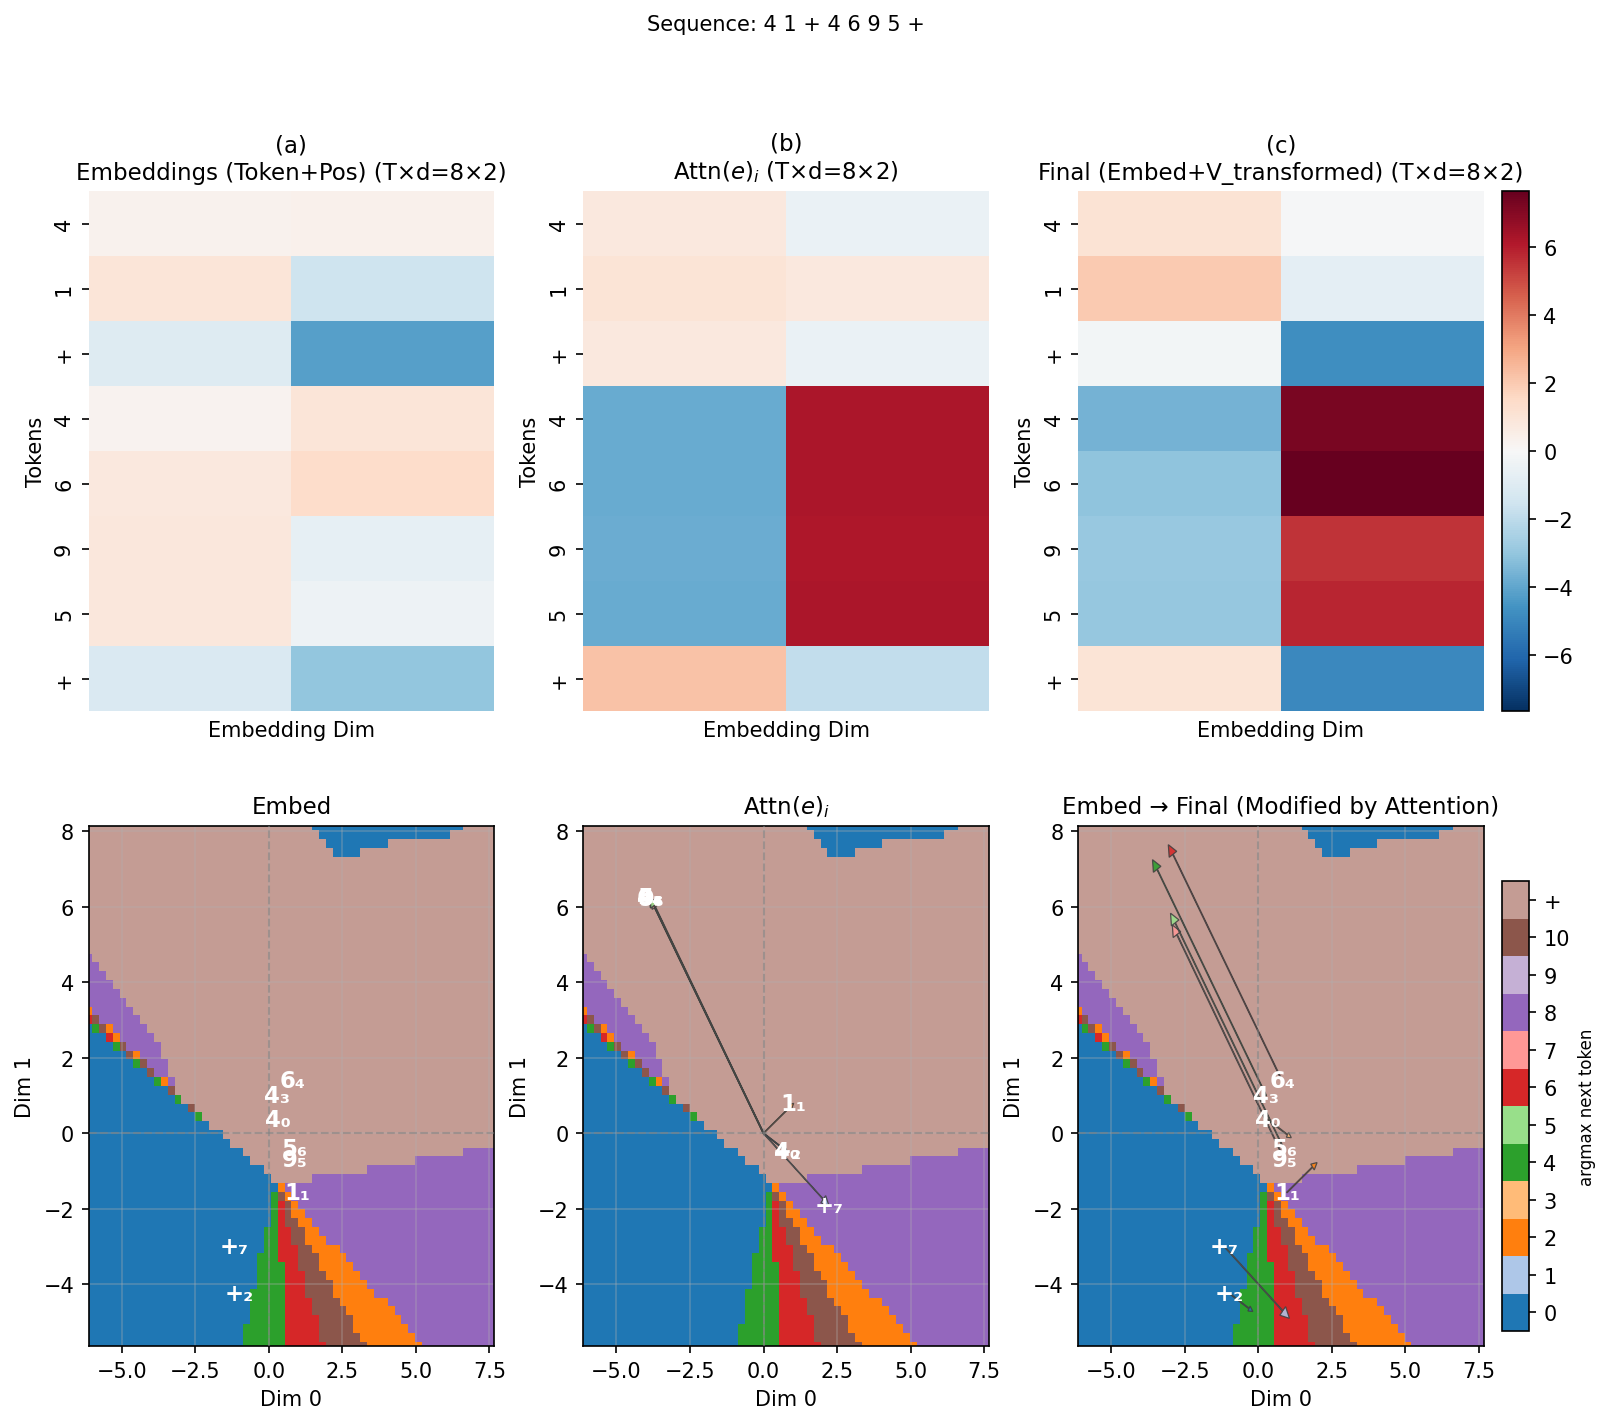
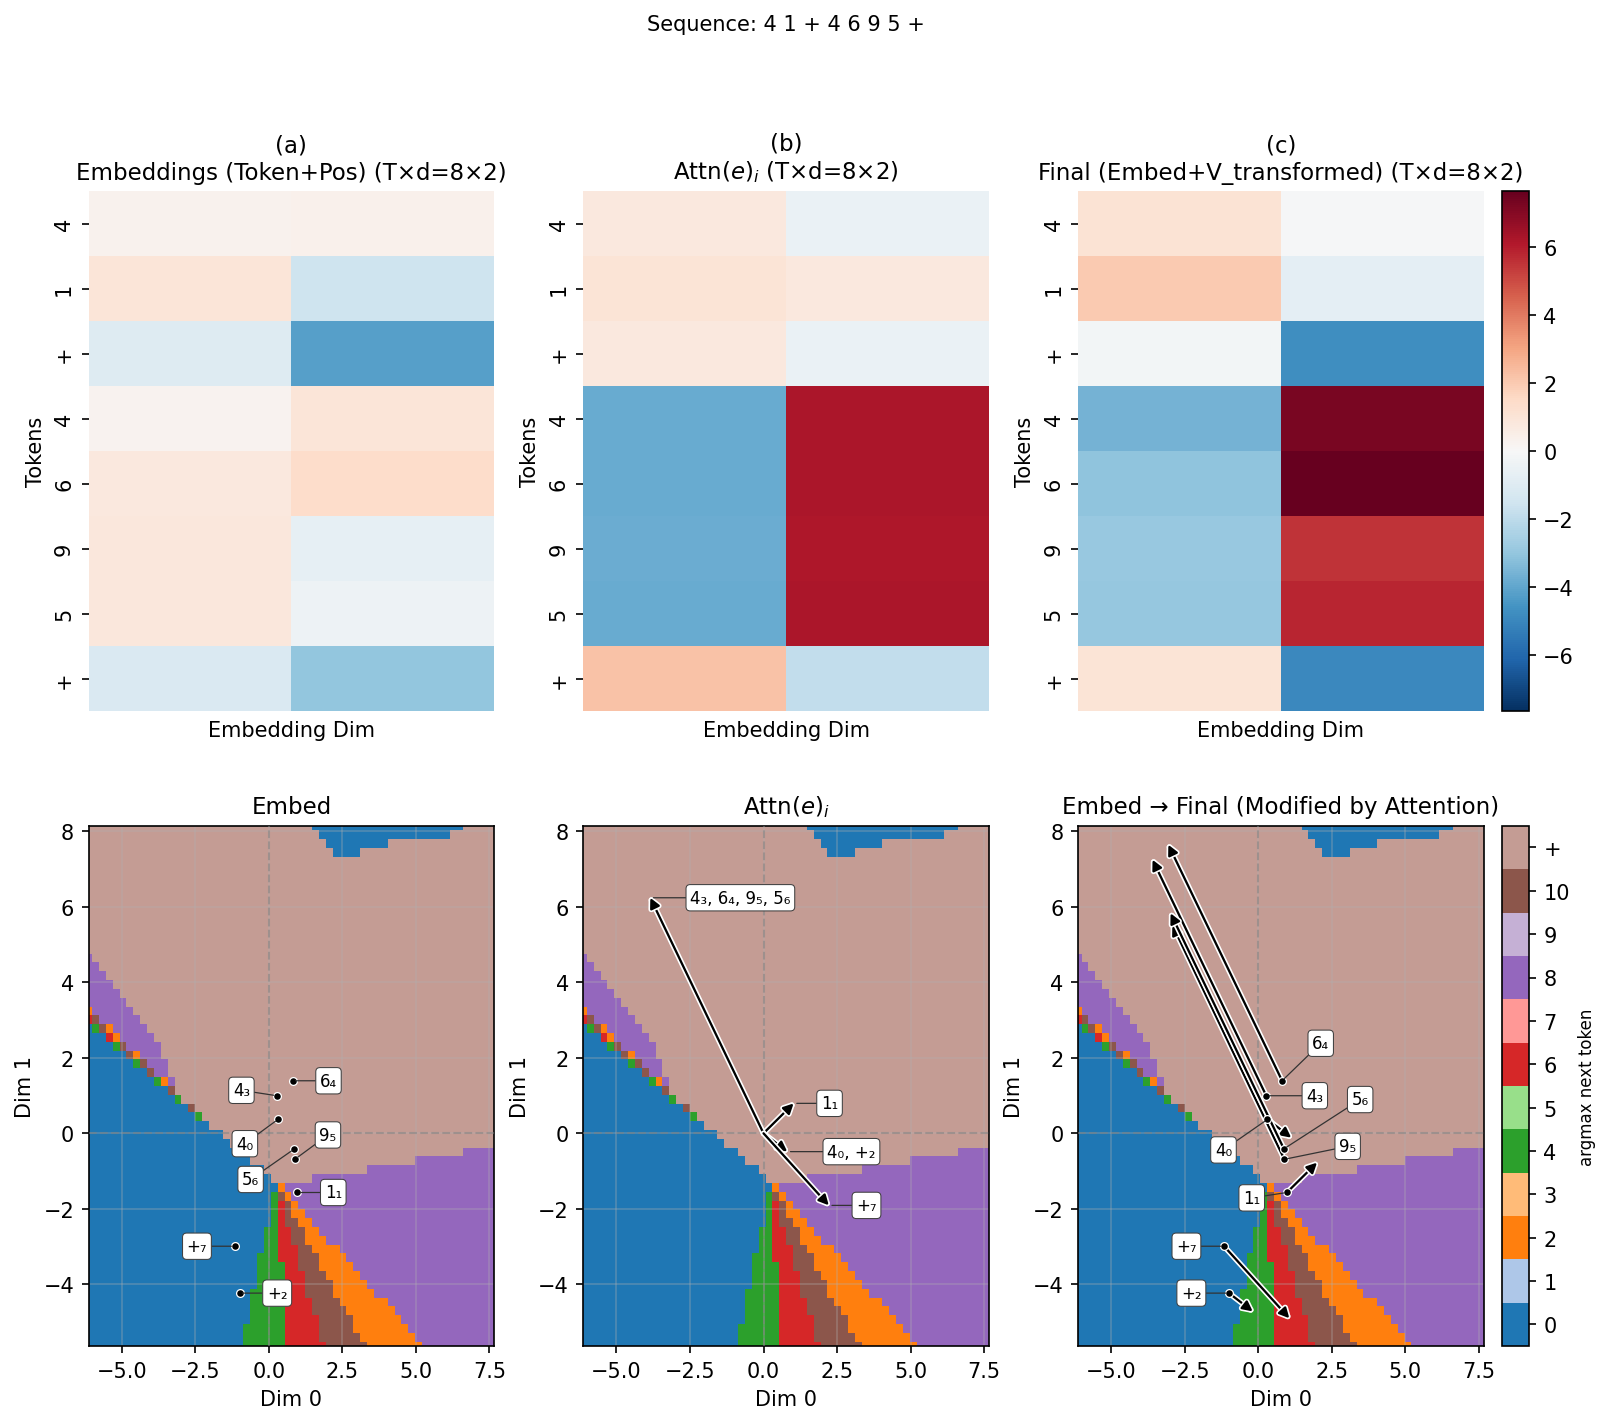
flyers- residual

diff --git a/plotting/17_residuals.py b/plotting/17_residuals.py
@@ -31,6 +31,206 @@ from plotting._utils import (
     collect_epoch_stats, get_attention_snapshot_from_X, get_multihead_snapshot_from_X,
     estimate_loss, estimate_rule_error,
 )
+import matplotlib.patheffects as _pe
+
+
+_FLYER_BOX = dict(boxstyle='round,pad=0.25', facecolor='white', edgecolor='0.25', linewidth=0.5)
+
+
+def _segments_cross(p1, p2, q1, q2):
+    """True if segments p1-p2 and q1-q2 properly intersect (display coordinates)."""
+    def orient(a, b, c):
+        return (b[0] - a[0]) * (c[1] - a[1]) - (b[1] - a[1]) * (c[0] - a[0])
+    d1, d2 = orient(q1, q2, p1), orient(q1, q2, p2)
+    d3, d4 = orient(p1, p2, q1), orient(p1, p2, q2)
+    return (d1 * d2 < 0) and (d3 * d4 < 0)
+
+
+def _segment_hits_rect(p1, p2, rect):
+    x0, y0, x1, y1 = rect
+    for p in (p1, p2):
+        if x0 <= p[0] <= x1 and y0 <= p[1] <= y1:
+            return True
+    corners = [(x0, y0), (x1, y0), (x1, y1), (x0, y1)]
+    return any(_segments_cross(p1, p2, corners[k], corners[(k + 1) % 4]) for k in range(4))
+
+
+def _point_seg_dist(p, a, b):
+    p, a, b = (np.asarray(v, float) for v in (p, a, b))
+    ab = b - a
+    n2 = float(ab @ ab)
+    t = 0.0 if n2 == 0 else float(np.clip((p - a) @ ab / n2, 0, 1))
+    return float(np.linalg.norm(p - (a + t * ab)))
+
+
+def _seg_seg_dist(p1, p2, q1, q2):
+    if _segments_cross(p1, p2, q1, q2):
+        return 0.0
+    return min(_point_seg_dist(p1, q1, q2), _point_seg_dist(p2, q1, q2),
+               _point_seg_dist(q1, p1, p2), _point_seg_dist(q2, p1, p2))
+
+
+def _point_rect_dist(p, rect):
+    dx = max(rect[0] - p[0], 0, p[0] - rect[2])
+    dy = max(rect[1] - p[1], 0, p[1] - rect[3])
+    return float(np.hypot(dx, dy))
+
+
+def _grow(rect, m):
+    return (rect[0] - m, rect[1] - m, rect[2] + m, rect[3] + m)
+
+
+def _rects_overlap(a, b):
+    return not (a[2] < b[0] or b[2] < a[0] or a[3] < b[1] or b[3] < a[1])
+
+
+def _group_coincident(XY, tol=0.15):
+    groups, used = [], [False] * len(XY)
+    for i in range(len(XY)):
+        if used[i]:
+            continue
+        g = [i]
+        used[i] = True
+        for j in range(i + 1, len(XY)):
+            if not used[j] and np.hypot(*(XY[i] - XY[j])) < tol:
+                g.append(j)
+                used[j] = True
+        groups.append(g)
+    return groups
+
+
+def _draw_clean_arrow(ax, start, end, lw=1.1):
+    """Black arrow with a thin white halo so it reads on any background colour."""
+    ann = ax.annotate(
+        '', xy=end, xytext=start, zorder=5,
+        arrowprops=dict(arrowstyle='-|>,head_length=0.4,head_width=0.2', color='black',
+                        lw=lw, shrinkA=0, shrinkB=0),
+    )
+    ann.arrow_patch.set_path_effects([_pe.Stroke(linewidth=lw + 1.6, foreground='white'), _pe.Normal()])
+
+
+def _place_flyers(ax, anchors, texts, avoid_segments=(), fontsize=8,
+                  radii_pt=(10, 16, 24, 34, 46, 60), n_dir=24):
+    """Call-out labels placed so leaders and boxes avoid the given segments, points and each other.
+
+    Must be called after the figure layout is final. Candidate positions (directions x radii
+    around each anchor) are scored; crossings with arrows/labels are heavily penalised and
+    shorter leaders are preferred.
+    """
+    fig = ax.figure
+    fig.canvas.draw()
+    renderer = fig.canvas.get_renderer()
+    to_px = ax.transData.transform
+    to_data = ax.transData.inverted().transform
+    px_per_pt = fig.dpi / 72.0
+
+    A = to_px(np.asarray(anchors, dtype=float))
+    segs = [(to_px(np.asarray(s, float)), to_px(np.asarray(e, float))) for s, e in avoid_segments]
+    axb = ax.get_window_extent(renderer)
+    inner = (axb.x0 + 2, axb.y0 + 2, axb.x1 - 2, axb.y1 - 2)
+    pad = 0.25 * fontsize * px_per_pt + 1.5
+    clear = 3.0 * px_per_pt
+    soft = 12.0 * px_per_pt
+
+    sizes = []
+    for t in texts:
+        tmp = ax.text(0, 0, t, fontsize=fontsize)
+        bb = tmp.get_window_extent(renderer)
+        tmp.remove()
+        sizes.append((bb.width + 2 * pad, bb.height + 2 * pad))
+
+    placed_rects, placed_leaders = [], []
+    order = sorted(range(len(A)), key=lambda k: -sizes[k][0])
+    choice = {}
+    for k in order:
+        ax_, ay_ = A[k]
+        w, h = sizes[k]
+        best = None
+        for R_pt in radii_pt:
+            R = R_pt * px_per_pt
+            for d in range(n_dir):
+                th = 2 * np.pi * d / n_dir
+                c, s = np.cos(th), np.sin(th)
+                ex, ey = ax_ + R * c, ay_ + R * s          # leader end = box edge point
+                cx = ex + (w / 2) * np.sign(c) * (abs(c) > 0.38)
+                cy = ey + (h / 2) * np.sign(s) * (abs(s) > 0.38)
+                rect = (cx - w / 2, cy - h / 2, cx + w / 2, cy + h / 2)
+                if rect[0] < inner[0] or rect[1] < inner[1] or rect[2] > inner[2] or rect[3] > inner[3]:
+                    continue
+                p0 = (ax_ + 4 * c, ay_ + 4 * s)
+                p1 = (ex, ey)
+                score = R
+                for q0, q1 in segs:
+                    own = (np.hypot(q0[0] - ax_, q0[1] - ay_) < 2 or
+                           np.hypot(q1[0] - ax_, q1[1] - ay_) < 2)
+                    if own:
+                        # Leader must not run back along an arrow that starts/ends at this anchor.
+                        far = q1 if np.hypot(q0[0] - ax_, q0[1] - ay_) < 2 else q0
+                        v = np.array(far) - np.array((ax_, ay_))
+                        n = np.linalg.norm(v)
+                        if n > 0 and np.dot(v / n, (c, s)) > np.cos(np.radians(35)):
+                            score += 500
+                    elif _seg_seg_dist(p0, p1, q0, q1) < clear:
+                        score += 1000
+                    if _segment_hits_rect(q0, q1, _grow(rect, clear)):
+                        score += 800
+                    # Arrowheads are wider than the shaft.
+                    if _point_rect_dist(q1, rect) < 2 * clear:
+                        score += 800
+                for r2 in placed_rects:
+                    if _rects_overlap(rect, _grow(r2, 3)):
+                        score += 5000
+                    if _segment_hits_rect(p0, p1, _grow(r2, 2)):
+                        score += 2000
+                for l0, l1 in placed_leaders:
+                    if _seg_seg_dist(p0, p1, l0, l1) < clear:
+                        score += 2000
+                    if _segment_hits_rect(l0, l1, _grow(rect, 2)):
+                        score += 2000
+                own_d = _point_rect_dist((ax_, ay_), rect)
+                for j, (bx, by) in enumerate(A):
+                    if j == k:
+                        continue
+                    d_other = _point_rect_dist((bx, by), rect)
+                    if d_other < 4:
+                        score += 600
+                    # The box must read as belonging to its own point, not a neighbour.
+                    if d_other < own_d + 4:
+                        score += 400
+                    if _point_seg_dist((bx, by), p0, p1) < clear + 2:
+                        score += 300
+                # Soft terms: prefer open space and labels sitting beside (not above/below) the point.
+                score += 25 * abs(s)
+                for j, (bx, by) in enumerate(A):
+                    if j != k:
+                        score += 30 * max(0.0, 1 - _point_rect_dist((bx, by), rect) / soft)
+                for q0, q1 in segs:
+                    dseg = 0.0 if _segment_hits_rect(q0, q1, rect) else min(
+                        [_point_seg_dist(corner, q0, q1)
+                         for corner in ((rect[0], rect[1]), (rect[2], rect[1]),
+                                        (rect[2], rect[3]), (rect[0], rect[3]))]
+                        + [_point_rect_dist(q0, rect), _point_rect_dist(q1, rect)]
+                    )
+                    score += 20 * max(0.0, 1 - dseg / soft)
+                for r2 in placed_rects:
+                    gap = max(r2[0] - rect[2], rect[0] - r2[2], r2[1] - rect[3], rect[1] - r2[3], 0)
+                    score += 20 * max(0.0, 1 - gap / soft)
+                if best is None or score < best[0]:
+                    best = (score, rect, p0, p1, (cx, cy))
+        if best is None:
+            best = (0, (ax_, ay_, ax_, ay_), (ax_, ay_), (ax_, ay_), (ax_ + 20, ay_ + 20))
+        placed_rects.append(best[1])
+        placed_leaders.append((best[2], best[3]))
+        choice[k] = best[4]
+
+    for k in range(len(A)):
+        tx, ty = to_data(choice[k])
+        ax.annotate(
+            texts[k], xy=tuple(anchors[k]), xytext=(tx, ty), textcoords='data',
+            ha='center', va='center', fontsize=fontsize, color='black', zorder=7,
+            bbox=_FLYER_BOX,
+            arrowprops=dict(arrowstyle='-', color='0.2', lw=0.6, shrinkA=0, shrinkB=1.5),
+        )
 
 
 @torch.no_grad()
@@ -228,6 +428,8 @@ def plot_residuals(model, X_list, itos, save_path=None, num_sequences=3):
     
     # Second pass: create plots
     _resid_axes = []
+    _flyer_jobs = []
+    ax_row2_last = None
     ax_col_b_top = None  # top-row axis of column (b); sequence title centered over this
     for data_dict in all_data:
         seq_idx = data_dict['seq_idx']
@@ -309,13 +511,10 @@ def plot_residuals(model, X_list, itos, save_path=None, num_sequences=3):
         # Mark origin with faint dashed lines
         ax.axhline(y=0, color='gray', linestyle='--', linewidth=1, alpha=0.5, zorder=5)
         ax.axvline(x=0, color='gray', linestyle='--', linewidth=1, alpha=0.5, zorder=5)
-        for i, (token, pos) in enumerate(zip(tokens, range(len(tokens)))):
-            color = token_pos_to_color[(token, pos)]
-            ax.text(
-                embeddings_2d[i, 0], embeddings_2d[i, 1], _token_pos_label(token, pos),
-                fontsize=11, fontweight="bold", ha="center", va="center",
-                color="white" if show_landscape else color, zorder=6,
-            )
+        _labels = [_token_pos_label(t, p) for p, t in enumerate(tokens)]
+        ax.scatter(embeddings_2d[:, 0], embeddings_2d[:, 1], s=14, c='black',
+                   edgecolors='white', linewidths=0.6, zorder=6)
+        _flyer_jobs.append((ax, embeddings_2d.copy(), _labels, []))
         ax.set_xlim(xlim_shared)
         ax.set_ylim(ylim_shared)
         ax.margins(0)
@@ -335,25 +534,16 @@ def plot_residuals(model, X_list, itos, save_path=None, num_sequences=3):
         # Mark origin with faint dashed lines
         ax.axhline(y=0, color='gray', linestyle='--', linewidth=1, alpha=0.5, zorder=5)
         ax.axvline(x=0, color='gray', linestyle='--', linewidth=1, alpha=0.5, zorder=5)
-        arr_ec = "0.25" if show_landscape else None
-        for i, (token, pos) in enumerate(zip(tokens, range(len(tokens)))):
-            color = token_pos_to_color[(token, pos)]
-            x, y = V_transformed_2d[i, 0], V_transformed_2d[i, 1]
-            # Arrow from origin to this point
-            arr_len = np.sqrt(x**2 + y**2)
-            head = max(0.12, min(0.25, arr_len * 0.12))
-            kw = dict(head_width=head, head_length=head, fc=color, alpha=0.88, length_includes_head=True, width=0.015, zorder=3)
-            if arr_ec is not None:
-                kw["ec"] = arr_ec
-                kw["linewidth"] = 0.6
-            else:
-                kw["ec"] = color
-            ax.arrow(0, 0, x, y, **kw)
-            ax.text(
-                x, y, _token_pos_label(token, pos),
-                fontsize=11, fontweight="bold", ha="center", va="center",
-                color="white" if show_landscape else color, zorder=6,
-            )
+        # Tokens whose attention outputs coincide share one arrow and one call-out.
+        _labels = [_token_pos_label(t, p) for p, t in enumerate(tokens)]
+        _groups = _group_coincident(V_transformed_2d)
+        _tips = np.array([V_transformed_2d[g].mean(axis=0) for g in _groups])
+        for tip in _tips:
+            _draw_clean_arrow(ax, (0.0, 0.0), tuple(tip))
+        _flyer_jobs.append((
+            ax, _tips, [", ".join(_labels[i] for i in g) for g in _groups],
+            [((0.0, 0.0), tuple(tip)) for tip in _tips],
+        ))
         ax.set_xlim(xlim_shared)
         ax.set_ylim(ylim_shared)
         ax.margins(0)
@@ -374,27 +564,16 @@ def plot_residuals(model, X_list, itos, save_path=None, num_sequences=3):
         ax.axhline(y=0, color='gray', linestyle='--', linewidth=1, alpha=0.5, zorder=5)
         ax.axvline(x=0, color='gray', linestyle='--', linewidth=1, alpha=0.5, zorder=5)
         # Draw arrows from embeddings to Final points
-        arr_ec2 = "0.25" if show_landscape else None
-        for i, (token, pos) in enumerate(zip(tokens, range(len(tokens)))):
-            color = token_pos_to_color[(token, pos)]
-            # Calculate arrow length for head size scaling
-            dx = Final_2d[i, 0] - embeddings_2d[i, 0]
-            dy = Final_2d[i, 1] - embeddings_2d[i, 1]
-            arrow_length = np.sqrt(dx**2 + dy**2)
-            head_size = max(0.15, min(0.3, arrow_length * 0.15))  # Scale head size with arrow length
-            kw2 = dict(head_width=head_size, head_length=head_size, fc=color, alpha=0.88, length_includes_head=True, width=0.02, zorder=3)
-            if arr_ec2 is not None:
-                kw2["ec"] = arr_ec2
-                kw2["linewidth"] = 0.6
-            else:
-                kw2["ec"] = color
-            ax.arrow(embeddings_2d[i, 0], embeddings_2d[i, 1], dx, dy, **kw2)
-            # Annotate only at beginning (embeddings point)
-            ax.text(
-                embeddings_2d[i, 0], embeddings_2d[i, 1], _token_pos_label(token, pos),
-                fontsize=11, fontweight="bold", ha="center", va="center",
-                color="white" if show_landscape else color, zorder=6,
-            )
+        _labels = [_token_pos_label(t, p) for p, t in enumerate(tokens)]
+        for i in range(len(tokens)):
+            _draw_clean_arrow(ax, tuple(embeddings_2d[i]), tuple(Final_2d[i]))
+        ax.scatter(embeddings_2d[:, 0], embeddings_2d[:, 1], s=14, c='black',
+                   edgecolors='white', linewidths=0.6, zorder=6)
+        _flyer_jobs.append((
+            ax, embeddings_2d.copy(), _labels,
+            [(tuple(embeddings_2d[i]), tuple(Final_2d[i])) for i in range(len(tokens))],
+        ))
+        ax_row2_last = ax
         ax.set_xlim(xlim_shared)
         ax.set_ylim(ylim_shared)
         ax.margins(0)
@@ -434,7 +613,11 @@ def plot_residuals(model, X_list, itos, save_path=None, num_sequences=3):
         ax_cbar = fig.add_axes([0.91, _hm_pos.y0, 0.015, _hm_pos.height])
         fig.colorbar(mappable, cax=ax_cbar)
     if show_landscape and landscape_mappable[0] is not None and prob_grid_bg is not None:
-        ax_cbar2 = fig.add_axes([0.91, 0.12, 0.015, 0.30])
+        if use_two_rows_r and ax_row2_last is not None:
+            _r2_pos = ax_row2_last.get_position()
+            ax_cbar2 = fig.add_axes([0.91, _r2_pos.y0, 0.015, _r2_pos.height])
+        else:
+            ax_cbar2 = fig.add_axes([0.91, 0.12, 0.015, 0.30])
         V_cb = prob_grid_bg[2].shape[2]
         tick_idx = np.arange(V_cb)
         cb2 = fig.colorbar(landscape_mappable[0], cax=ax_cbar2, ticks=tick_idx)
@@ -443,6 +626,8 @@ def plot_residuals(model, X_list, itos, save_path=None, num_sequences=3):
         # Discrete BoundaryNorm colorbars often get minor ticks between classes; hide them.
         cb2.ax.yaxis.set_minor_locator(NullLocator())
         cb2.ax.minorticks_off()
+    for _ax, _anchors, _texts, _segs in _flyer_jobs:
+        _place_flyers(_ax, _anchors, _texts, _segs)
     if save_path:
         plt.savefig(save_path, bbox_inches='tight', dpi=150)
         plt.close()
